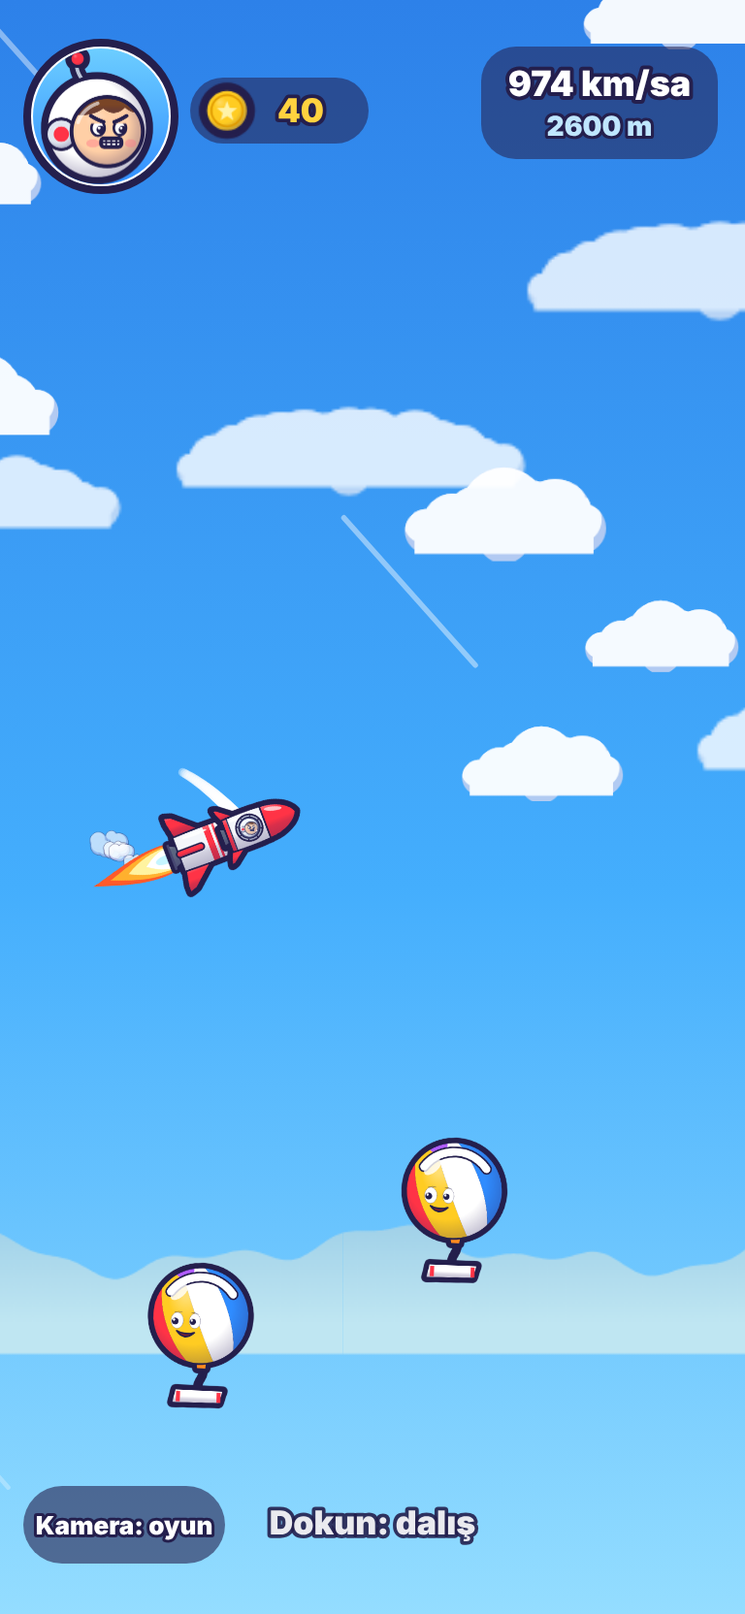
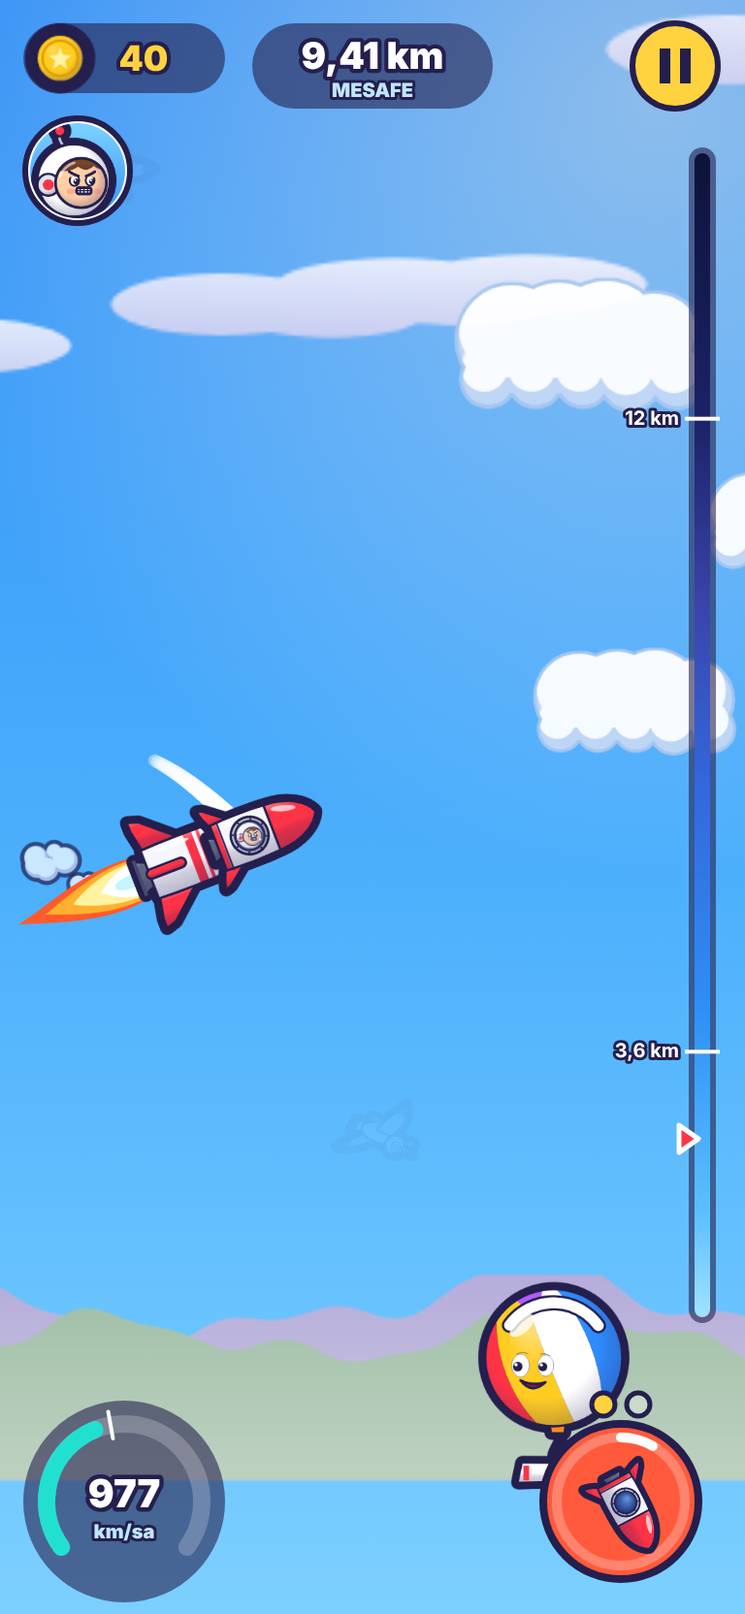
WIP: ara yedek
Claude-Session: https://claude.ai/code/session_01FT8SNz1Hsnax27do6pkEGm

diff --git a/oyun/b1_gorsel/index.html b/oyun/b1_gorsel/index.html
@@ -37,6 +37,7 @@ async function yukle() {
   const j = await (await fetch('sprite/atlas.json')).json();
   IMG = await Promise.all(j.sayfalar.map(s => new Promise((ok, no) => { const i = new Image(); i.onload = () => ok(i); i.onerror = () => no(new Error('yüklenemedi: ' + s)); i.src = 'sprite/' + s; })));
   ATL = j;
+  try { const t = await (await fetch('sprite/b0_tipler.json')).json(); for (const k in t) Object.assign(TIP[k], { aci: t[k].aci, k: t[k].k }); } catch (e) { /* gömülü B0 değerleri kalır */ }
 }
 // ad: sprite; X,Y: ekran (CSS px); rot: ekran açısı (saat yönü +); k: CSS px / dünya birimi; sx,sy: yerel ezilme
 function spr(ad, X, Y, rot, k, sx = 1, sy = 1, a = 1) {
@@ -56,7 +57,8 @@ function renkKaris(a, b, t) { const p = (h, i) => parseInt(h.slice(1 + i * 2, 3 
 
 // ------------------------------------------------------------------ sabitler (B0 ile aynı ölçek)
 const G = 30, R_ROKET = 4, RAMPA_Y = 60, RAMPA_ACI = 38, SES_V = 115;
-const TIP = { balon: { r: 12, aci: 52, k: 0.95 }, zeplin: { r: 22, aci: 48, k: 1.0 }, marti: { r: 13 }, ucurtma: { r: 7 }, dron: { r: 9 } };
+const TIP = { balon: { r: 12, aci: 50, k: 0.8 }, zeplin: { r: 22, aci: 45, k: 0.85 },   // B0 ayar.json TIPLER (sprite/b0_tipler.json ile ezilir)
+  marti: { r: 13 }, ucurtma: { r: 7 }, dron: { r: 9 } };
 const NOZUL = { 2: -20.3, 1: -6.9 };
 
 // ------------------------------------------------------------------ durum
@@ -65,7 +67,7 @@ function sifirla() {
   tohum = 20261008;
   S = {
     t: 0, faz: 'rampa', zaman: 1, yavasT: 9, solma: 1, solmaHedef: 0,
-    R: { x: 0, y: 0, vx: 0, vy: 0, ang: rad(RAMPA_ACI), kademe: 2, dalis: 0, guc: 0, ifade: 'notr', ifT: 0, ez: 9, yol: -45, sesKirildi: false, iz: [] },
+    R: { x: 0, y: 0, vx: 0, vy: 0, ang: rad(RAMPA_ACI), kademe: 2, dalis: 0, guc: 0, ifade: 'notr', ifT: 0, ez: 9, goy: 0, goT: 9, hak: 2, dolum: 0, yol: -45, sesKirildi: false, iz: [] },
     nesne: [], parca: [], yazi: [], halka: [],
     sira: ['ucurtma', 'zeplin', 'balon', 'marti', 'dalis', 'dron', 'son'], adim: 0, hedef: null, olaylar: [],
     K: { x: 0, y: 0, s: 1.9, W: 200, v: 60, sars: 0, ox: 0, oy: 0 }, cdt: 0, flas: 9, konT: 9, sonDokun: -9, apexT: null, dekorX: 120,
@@ -151,6 +153,7 @@ function dekor() {
 // ------------------------------------------------------------------ eylemler
 function dalis(oto) {
   const R = S.R; if (S.faz !== 'ucus' || R.dalis > 0) return;
+  if (!oto && R.hak <= 0) return; R.hak = Math.max(0, R.hak - 1);
   R.dalis = 0.5; R.vy = Math.min(R.vy, -30); R.guc = 0.5; ifade('kararli', 0.9);
   olay(oto ? 'dalis_oto' : 'dalis_dokunus');
   if (S.sira[S.adim] === 'dalis') {   // dalış rotasına sekme balonu (mükemmel sekme + patlama)
@@ -183,7 +186,8 @@ function sekme(o) {
   const v = Math.hypot(R.vx, R.vy), mukemmel = R.dalis > 0 || o.patlar;
   const hiz = Math.max(v * T.k * (mukemmel ? 1.12 : 1), 100), a = rad(T.aci + (mukemmel ? 4 : 0));
   R.vx = hiz * Math.cos(a); R.vy = hiz * Math.sin(a); R.dalis = 0;
-  const cx_ = R.x, cy_ = o.y + o.r * (o.tip === 'zeplin' ? 0.95 : 0.9);
+  const ust = o.y + (o.tip === 'zeplin' ? 21.6 : 12); R.goy = Math.max(0, ust + 4.6 - R.y); R.goT = 0;   // görsel: roket şeridin üstüne oturur
+  const cx_ = R.x, cy_ = ust;
   for (let i = 0; i < 5; i++) toz(cx_ + (i - 2) * 3, cy_, Math.PI * (i < 2 ? 1 : 0) + (rnd() - 0.5) * 0.6, 25 + rnd() * 25, 0.9);
   yildiz(cx_, cy_ + 2, mukemmel ? 1.3 : 1);
   sars(mukemmel ? 0.6 : 0.35);
@@ -203,7 +207,8 @@ function jetonlar(x, y, n) { for (let i = 0; i < n; i++) parca({ ad: 'jeton', x,
 function adim(dt) {
   S.t += dt;
   const R = S.R;
-  R.ez += dt; R.guc = Math.max(0, R.guc - dt); S.portreT += dt;
+  R.ez += dt; R.goT += dt; if (R.hak < 2) { R.dolum += dt / 3; if (R.dolum >= 1) { R.hak++; R.dolum = 0; } } else R.dolum = 0;
+  R.guc = Math.max(0, R.guc - dt); S.portreT += dt;
   if (R.ifT > 0) { R.ifT -= dt; if (R.ifT <= 0) { R.ifade = S.ifSonra || 'notr'; S.ifSonra = null; S.portreT = 0; } }
   if (S.faz === 'rampa') {
     if (S.t > 1.0) {
@@ -240,7 +245,7 @@ function adim(dt) {
         if (o === S.hedef) sonraki();
       } else if (o.tip === 'dron' && o.halka && d < o.r + R_ROKET + 3) {
         o.halka = 0; o.bidonT = 0; S.dronT = S.t; olay('dron');
-        ifade('heyecan', 1.0); yildiz(o.x, o.y, 0.8); yazi('+1 DALIŞ', R.x, R.y + 14, '#22e0d0'); jetonlar(R.x, R.y, 2);
+        ifade('heyecan', 1.0); R.hak = Math.min(2, R.hak + 1); yildiz(o.x, o.y, 0.8); yazi('+1 DALIŞ', R.x, R.y + 14, '#22e0d0'); jetonlar(R.x, R.y, 2);
         if (o === S.hedef) sonraki();
       }
     }
@@ -290,7 +295,8 @@ function sesDuvari() {
 function bitir() { if (S.faz === 'bitti') return; S.faz = 'bitti'; S.solmaHedef = 1; olay('bitis'); }
 
 // ------------------------------------------------------------------ kamera (B0: W = min(500, 150 + 0,5·v), roket sol üçte birde)
-let YAKIN = Q.get('kamera') === 'yakin';
+let YAKIN = Q.get('kamera') !== 'uzak';   // kullanıcı kararı: yakın kamera varsayılan (W × 0,7)
+const TEST = Q.has('test');
 function kameraGuncelle(dt, ani) {
   const K = S.K, R = S.R, v = Math.hypot(R.vx, R.vy);
   K.v = ani ? v : K.v + (v - K.v) * (1 - Math.exp(-dt / 0.8));
@@ -303,7 +309,8 @@ function kameraGuncelle(dt, ani) {
 const ex = x => CW / 3 + (x - S.K.x) * S.K.s + S.K.ox, ey = y => CH / 2 - (y - S.K.y) * S.K.s + S.K.oy;
 
 // ------------------------------------------------------------------ gök ve paralaks
-const GOK = [[0, '#9fe3ff'], [180, '#46b3ff'], [450, '#2a7be6'], [750, '#1d4bb0'], [1000, '#16245a'], [1500, '#0b1030']];
+// irtifa bantları: alçak (parlak camgöbeği) → bulut bandı (doygun mavi) → üst troposfer (mora kayan) → tropopoz (lacivert) → stratosfer (gece)
+const GOK = [[0, '#a6e4ff'], [120, '#5cc0ff'], [350, '#2f8ef5'], [600, '#3466dc'], [800, '#3a43a8'], [1000, '#1c2266'], [1300, '#0d1238'], [1700, '#070a22']];
 function gokRenk(y) { for (let i = 1; i < GOK.length; i++) if (y <= GOK[i][0]) { const [y0, a] = GOK[i - 1], [y1, b] = GOK[i]; return renkKaris(a, b, kis((y - y0) / (y1 - y0), 0, 1)); } return GOK[GOK.length - 1][1]; }
 const YILDIZ = Array.from({ length: 70 }, (_, i) => [hash(i, 1), hash(i, 2), 0.6 + hash(i, 3) * 1.4, hash(i, 4)]);
 function gokCiz() {
@@ -311,6 +318,10 @@ function gokCiz() {
   cx.setTransform(DPR, 0, 0, DPR, 0, 0); cx.globalAlpha = 1;
   const g = cx.createLinearGradient(0, 0, 0, CH); g.addColorStop(0, gokRenk(ust)); g.addColorStop(0.55, gokRenk(lerp(ust, alt, 0.55))); g.addColorStop(1, gokRenk(alt));
   cx.fillStyle = g; cx.fillRect(0, 0, CW, CH);
+  // güneş ışığı: alçakta sıcak, yükseldikçe soğuk ve sönük
+  const yk = kis(K.y / 1000, 0, 1), gx = CW * 0.88, gy = CH * 0.06, gr = CW * 1.05;
+  const gl = cx.createRadialGradient(gx, gy, 0, gx, gy, gr); gl.addColorStop(0, `rgba(${Math.round(lerp(255, 190, yk))},${Math.round(lerp(244, 205, yk))},${Math.round(lerp(214, 255, yk))},${lerp(0.55, 0.18, yk)})`); gl.addColorStop(1, 'rgba(255,255,255,0)');
+  cx.fillStyle = gl; cx.fillRect(0, 0, CW, CH);
   // yıldızlar (y > 500'de belirir)
   const ya = kis((ust - 550) / 400, 0, 1);
   if (ya > 0) {
@@ -341,11 +352,13 @@ function bulutKatmani(f, boy, hucreW, hucreH, adlar, alfa, yMin, yMax, olasilik)
 function zeminCiz() {
   const K = S.K, s = K.s;
   // uzak tepeler (f = 0,2)
-  const f = 0.2, baz = S.K0 * s * (1 - f) - 26;
+  const f = 0.2, baz = S.K0 * s * (1 - f) - 12;
   const Yu = CH / 2 + K.y * s * f + baz;
-  if (Yu < CH + 40) { const tw = 300 * s * 0.8, off = ((K.x * s * f) % tw + tw) % tw; for (let X = -off; X < CW; X += tw) spr('uzak_tepe', X, Yu, 0, s * 0.8); }
+  if (Yu < CH + 40) { const tw = 300 * s * 0.8, off = ((K.x * s * f) % tw + tw) % tw; for (let X = -off; X < CW + 2; X += tw - 1) spr('uzak_tepe', X, Yu, 0, s * 0.8); }
+  // ufukta sıcak pus: uzak tepelerin altını zemine eritir
   const Yg = ey(0);
-  if (Yg < CH + 30 * s) { const tw = 200 * s, off = (((K.x - 0) * s) % tw + tw) % tw; for (let X = CW / 3 - off - tw * 2; X < CW + tw; X += tw) spr('zemin', X, Yg, 0, s); }
+  if (Yg < CH + 60) { const h = CH * 0.36; cx.setTransform(DPR, 0, 0, DPR, 0, 0); cx.globalAlpha = 1; const g = cx.createLinearGradient(0, Yg - h, 0, Yg + 4); g.addColorStop(0, 'rgba(255,220,185,0)'); g.addColorStop(0.75, 'rgba(255,224,192,.45)'); g.addColorStop(1, 'rgba(250,228,200,.8)'); cx.fillStyle = g; cx.fillRect(0, Yg - h, CW, h + 4); }
+  if (Yg < CH + 30 * s) { const tw = 200 * s, off = (((K.x - 0) * s) % tw + tw) % tw; for (let X = CW / 3 - off - tw * 2; X < CW + tw; X += tw - 1) spr('zemin', X, Yg, 0, s); }
 }
 
 // ------------------------------------------------------------------ çizim
@@ -374,19 +387,23 @@ function ciz() {
   }
   // nesneler
   for (const o of S.nesne) nesneCiz(o);
-  // parçacıklar (arkada: duman/toz) ve roket
+  // parçacıklar (arkada: duman/toz); ses duvarı efektleri roketin arkasında, roket tam opak
   parcaCiz(false);
-  roketCiz();
-  parcaCiz(true);
-  // ses duvarı konisi + şok halkaları
-  const R = S.R;
+  const R = S.R, RX = ex(R.x), RY = ey(R.y);
+  if (!AZ && S.flas < 0.09) { const r = Math.sqrt(0.3 * CW * CH / Math.PI); cx.setTransform(DPR, 0, 0, DPR, 0, 0); const g = cx.createRadialGradient(RX, RY, 0, RX, RY, r); g.addColorStop(0, 'rgba(255,255,255,.7)'); g.addColorStop(1, 'rgba(255,255,255,0)'); cx.fillStyle = g; cx.fillRect(RX - r, RY - r, 2 * r, 2 * r); }
+  if (S.konT < 0.9) { const a = Math.min(1, 1.6 * (1 - S.konT / 0.9)), sc = 1.3 + S.konT * 0.8; spr('ses_konisi', RX + Math.cos(-R.ang) * 12 * s, RY + Math.sin(-R.ang) * 12 * s, -R.ang, s * sc, 1, 1, a); }
+  if (S.konT < 0.6) {   // buhar diski: gövdeyi çevreleyen, hareket yönüne dik ince disk
+    const u = S.konT / 0.6, c = Math.cos(-R.ang), n = Math.sin(-R.ang);
+    cx.setTransform(DPR * c, DPR * n, -DPR * n, DPR * c, DPR * RX, DPR * RY);
+    cx.globalAlpha = 0.6 * (1 - u); cx.fillStyle = '#ffffff'; cx.beginPath(); cx.ellipse(2 * s - u * 6 * s, 0, (1.4 + 2 * u) * s, (9 + 24 * u) * s, 0, 0, 6.283); cx.fill();
+    cx.globalAlpha = 0.9 * (1 - u); cx.strokeStyle = '#eaf6ff'; cx.lineWidth = 2; cx.stroke(); cx.globalAlpha = 1;
+  }
   cx.setTransform(DPR, 0, 0, DPR, 0, 0);
   for (const h of S.halka) { if (h.t < 0) continue; const u = h.t / h.omur; cx.globalAlpha = (1 - u) * 0.9; cx.strokeStyle = '#fff'; cx.lineWidth = h.w * (1 - u) + 1; cx.beginPath(); cx.arc(ex(h.x), ey(h.y), (h.r0 + (h.r1 - h.r0) * (1 - (1 - u) ** 3)) * s, 0, 6.283); cx.stroke(); }
   cx.globalAlpha = 1;
+  roketCiz();
+  parcaCiz(true);
   hizCizgileri();
-  // parlama (≤ %30 alan, < 100 ms; hareket azaltmada yok)
-  if (!AZ && S.flas < 0.09) { const r = Math.sqrt(0.3 * CW * CH / Math.PI), X = ex(R.x), Y = ey(R.y); const g = cx.createRadialGradient(X, Y, 0, X, Y, r); g.addColorStop(0, 'rgba(255,255,255,.8)'); g.addColorStop(1, 'rgba(255,255,255,0)'); cx.fillStyle = g; cx.fillRect(X - r, Y - r, 2 * r, 2 * r); }
-  if (S.konT < 0.9) { const a = Math.min(1, 1.6 * (1 - S.konT / 0.9)), sc = 1.5 + S.konT * 0.8; spr('ses_konisi', ex(R.x) + Math.cos(-R.ang) * 13 * s, ey(R.y) + Math.sin(-R.ang) * 13 * s, -R.ang, s * sc, 1, 1, a); }
   yazilar();
   arayuz();
   if (S.solma > 0.001) { cx.setTransform(DPR, 0, 0, DPR, 0, 0); cx.globalAlpha = S.solma; cx.fillStyle = '#0d1538'; cx.fillRect(0, 0, CW, CH); cx.globalAlpha = 1; }
@@ -437,7 +454,7 @@ function nesneCiz(o) {
   }
 }
 function roketCiz() {
-  const R = S.R, s = S.K.s, X = ex(R.x), Y = ey(R.y);
+  const R = S.R, s = S.K.s, X = ex(R.x), Y = ey(R.y + R.goy * Math.max(0, 1 - R.goT / 0.15));
   if (S.faz !== 'rampa') { const hedef = Math.atan2(R.vy, R.vx); let d = hedef - R.ang; while (d > Math.PI) d -= 6.283; while (d < -Math.PI) d += 6.283; R.ang += d * Math.min(1, S.cdt * 12); }
   const rot = -R.ang, v = Math.hypot(R.vx, R.vy);
   // ezilme/esneme: sekmede kısa ezilme, hızda hafif esneme
@@ -470,7 +487,7 @@ function parcaCiz(on) {
     let ad = p.ad; if (p.kareler) ad += '_' + Math.min(p.kareler - 1, Math.floor(u * p.kareler));
     const a = p.a * (p.jeton ? 1 : u > 0.6 ? (1 - u) / 0.4 : 1);
     let X = ex(p.x) + (p.salin ? Math.sin(p.t * 8) * 3 : 0), Y = ey(p.y);
-    if (p.jeton) { const f = kis((u - 0.25) / 0.75, 0, 1) ** 2; X = lerp(X, 117, f); Y = lerp(Y, 57, f); }
+    if (p.jeton) { const f = kis((u - 0.25) / 0.75, 0, 1) ** 2; X = lerp(X, 31, f); Y = lerp(Y, 30, f); }
     if (p.kademe) {
       if (p.t > 0.5) { const pa = Math.min(1, (p.t - 0.5) / 0.25); spr('parasut', X, Y - 6 * s, Math.sin(p.t * 2) * 0.1, s * pa, 1, 1, Math.min(1, (p.omur - p.t) * 2)); }
       spr('roket_alt', X + 12 * s * Math.cos(p.rot), Y + 12 * s * Math.sin(p.rot), p.rot, s, 1, 1, Math.min(1, (p.omur - p.t) * 2));
@@ -479,18 +496,28 @@ function parcaCiz(on) {
     spr(ad, X, Y, p.rot, s * k, 1, 1, a);
   }
 }
-// hız çizgileri (ekran uzayı, hızla artar; hareket azaltmada %30)
-const HC = Array.from({ length: 28 }, (_, i) => ({ x: hash(i, 11), y: hash(i, 12), l: 0.5 + hash(i, 13) }));
+// hız çizgileri: ekran kenarlarında, burun yönüyle aynı vektörde, kalın ve kısa ömürlü; ses duvarında yoğun (hareket azaltmada %30)
+const HC = Array.from({ length: 36 }, () => ({ on: false, x: 0, y: 0, t: 0, omur: 0, L: 0, w: 0 }));
+let hcBirikim = 0;
+function hcGuncelle(dt) {
+  const R = S.R, v = Math.hypot(R.vx, R.vy);
+  for (const h of HC) if (h.on) { h.t += dt; if (h.t >= h.omur) h.on = false; }
+  if (S.faz === 'rampa' || S.faz === 'bitti') return;
+  const ses = S.sesT < 0.8, oran = (ses ? 70 : kis((v - 100) / 50, 0, 1) * 12) * (AZ ? 0.3 : 1);
+  hcBirikim += dt * oran;
+  while (hcBirikim >= 1) {
+    hcBirikim -= 1; const h = HC.find(q => !q.on); if (!h) break;
+    const th = Math.random() * 6.283, rr = 0.44 + Math.random() * 0.1;
+    h.x = CW / 2 + Math.cos(th) * CW * rr * 1.15; h.y = CH / 2 + Math.sin(th) * CH * rr;
+    h.on = true; h.t = 0; h.omur = 0.12 + Math.random() * 0.1; h.L = (40 + Math.random() * 50) * (ses ? 1.6 : 1); h.w = 3 + Math.random() * 2.5;
+  }
+}
 function hizCizgileri() {
-  const R = S.R, v = Math.hypot(R.vx, R.vy); if (S.faz === 'rampa') return;
-  let n = Math.floor(kis((v - 85) / 4, 0, HC.length) * (AZ ? 0.3 : 1)); if (S.sesT < 1) n = HC.length;
-  if (!n) return;
-  const ux = R.vx / v, uy = -R.vy / v;
-  cx.setTransform(DPR, 0, 0, DPR, 0, 0); cx.strokeStyle = 'rgba(255,255,255,0.55)'; cx.lineCap = 'round';
-  for (let i = 0; i < n; i++) {
-    const h = HC[i], L = (40 + 60 * h.l) * Math.min(2.2, v / 100), ph = (S.t * (2 + h.l * 2) + h.x * 7) % 1;
-    const X = (h.x * CW * 1.3 + (1 - ph) * CW * 0.6 * ux * 2) % (CW + 100) - 50, Y = (h.y * CH * 1.2 + (1 - ph) * CH * 0.3 * uy * 2 + CH * 2) % (CH + 100) - 50;
-    cx.globalAlpha = Math.sin(Math.PI * ph) * 0.8; cx.lineWidth = 1.2 + h.l * 1.6;
+  const R = S.R, ux = Math.cos(-R.ang), uy = Math.sin(-R.ang);
+  cx.setTransform(DPR, 0, 0, DPR, 0, 0); cx.strokeStyle = '#ffffff'; cx.lineCap = 'round';
+  for (const h of HC) if (h.on) {
+    const u = h.t / h.omur, X = h.x - ux * u * 220, Y = h.y - uy * u * 220, L = h.L * Math.sin(Math.PI * u);
+    cx.globalAlpha = 0.75 * Math.sin(Math.PI * u); cx.lineWidth = h.w;
     cx.beginPath(); cx.moveTo(X, Y); cx.lineTo(X - ux * L, Y - uy * L); cx.stroke();
   }
   cx.globalAlpha = 1;
@@ -502,52 +529,89 @@ function metin(m, X, Y, boy, renk, a = 1) {
 }
 function yazilar() {
   cx.setTransform(DPR, 0, 0, DPR, 0, 0);
-  for (const y of S.yazi) { const u = y.t / 1.1, pop = u < 0.12 ? 0.6 + 0.6 * u / 0.12 : 1 + 0.05 * Math.sin(u * 20) * (1 - u); metin(y.m, ex(y.x), ey(y.y) - u * 40, 22 * y.boy * pop, y.renk, u > 0.7 ? (1 - u) / 0.3 : 1); }
+  for (const y of S.yazi) {
+    const u = y.t / 1.1, pop = u < 0.12 ? 0.6 + 0.6 * u / 0.12 : 1 + 0.05 * Math.sin(u * 20) * (1 - u), boy = 22 * y.boy * pop;
+    cx.font = `900 ${Math.round(boy)}px system-ui, "Segoe UI", Roboto, sans-serif`; const w = cx.measureText(y.m).width + boy * 0.3;
+    const X = kis(ex(y.x), w / 2 + 10, CW - w / 2 - 10), Y = kis(ey(y.y) - u * 40, 110, CH - 140);
+    metin(y.m, X, Y, boy, y.renk, u > 0.7 ? (1 - u) / 0.3 : 1);
+  }
 }
-// arayüz: pilot portresi (yüz ifadeleri telefonda burada okunur), hız, ipucu, kamera düğmesi
-const DUGME = { x: 0, y: 0, w: 0, h: 0 };
+// arayüz (konsept düzeni): sol üst jeton + pilot rozeti, üst orta mesafe, sağ üst duraklat, sağda irtifa çubuğu,
+// sol alt hız yayı (≥ Mach 1'de "MACH"), sağ alt dalış düğmesi (dolum halkası + hak noktaları)
+const DUGME = { x: 0, y: 0, w: 0, h: 0 }, DURAKLAT = { x: 0, y: 0, r: 22 };
+const PANEL = 'rgba(36,31,77,.6)', CIZGI = '#241f4d';
+function hap(x, y, w, h) { cx.fillStyle = PANEL; cx.beginPath(); cx.roundRect(x, y, w, h, h / 2); cx.fill(); }
 function arayuz() {
+  cx.setTransform(DPR, 0, 0, DPR, 0, 0); cx.globalAlpha = 1;
+  const R = S.R, ust = 12;
+  // jeton (sol üst)
+  hap(12, ust, 104, 36); spr('jeton', 31, ust + 18, 0, 5.2); metin(String(S.jeton), 74, ust + 19, 18, '#ffd23f');
+  // pilot rozeti (jetonun altında, ifadeyi gösterir)
+  const pop = S.portreT < 0.25 ? 1 + 0.2 * Math.sin(Math.PI * S.portreT / 0.25) : 1, PX = 40, PY = ust + 76, r = 27 * pop;
+  cx.fillStyle = '#fff'; cx.strokeStyle = CIZGI; cx.lineWidth = 3; cx.beginPath(); cx.arc(PX, PY, r, 0, 6.283); cx.fill(); cx.stroke();
+  cx.save(); cx.beginPath(); cx.arc(PX, PY, r - 2.5, 0, 6.283); cx.clip();
+  const g = cx.createLinearGradient(0, PY - r, 0, PY + r); g.addColorStop(0, '#7fd6ff'); g.addColorStop(1, '#2f8cff'); cx.fillStyle = g; cx.fillRect(PX - r, PY - r, 2 * r, 2 * r);
+  spr('portre_' + R.ifade, PX - 2, PY + 5 * pop, 0, 1.25 * pop);
+  cx.restore();
+  // mesafe (üst orta)
+  const km = Math.max(0, R.x * 0.012);
+  hap(CW / 2 - 62, ust, 124, 44); metin(km.toFixed(2).replace('.', ',') + ' km', CW / 2, ust + 18, 19, '#fff'); metin('MESAFE', CW / 2, ust + 35, 10, '#bfe6ff');
+  // duraklat (sağ üst)
+  DURAKLAT.x = CW - 36; DURAKLAT.y = ust + 22;
+  cx.setTransform(DPR, 0, 0, DPR, 0, 0); cx.fillStyle = '#ffd23f'; cx.strokeStyle = CIZGI; cx.lineWidth = 3; cx.beginPath(); cx.arc(DURAKLAT.x, DURAKLAT.y, DURAKLAT.r, 0, 6.283); cx.fill(); cx.stroke();
+  cx.fillStyle = CIZGI; if (DURDUR) { cx.beginPath(); cx.moveTo(DURAKLAT.x - 6, DURAKLAT.y - 9); cx.lineTo(DURAKLAT.x + 9, DURAKLAT.y); cx.lineTo(DURAKLAT.x - 6, DURAKLAT.y + 9); cx.fill(); }
+  else { cx.fillRect(DURAKLAT.x - 8, DURAKLAT.y - 9, 5.5, 18); cx.fillRect(DURAKLAT.x + 2.5, DURAKLAT.y - 9, 5.5, 18); }
+  // irtifa çubuğu (sağ, dikey): 0 → tropopoz (y 1000) → üstü
+  const bx = CW - 22, by0 = ust + 64, by1 = CH - 150, bh = by1 - by0, yM = 1300;
+  cx.fillStyle = PANEL; cx.beginPath(); cx.roundRect(bx - 7, by0, 14, bh, 7); cx.fill();
+  const bg = cx.createLinearGradient(0, by1, 0, by0); for (const [y, c] of GOK) bg.addColorStop(kis(y / yM, 0, 1), c);
+  cx.fillStyle = bg; cx.beginPath(); cx.roundRect(bx - 4, by0 + 3, 8, bh - 6, 4); cx.fill();
+  for (const [y, ad] of [[300, '3,6 km'], [1000, '12 km']]) { const Y = by1 - bh * y / yM; cx.fillStyle = '#fff'; cx.fillRect(bx - 9, Y - 1, 18, 2); cx.font = '700 10px system-ui, sans-serif'; cx.textAlign = 'right'; cx.textBaseline = 'middle'; cx.lineWidth = 3; cx.strokeStyle = CIZGI; cx.strokeText(ad, bx - 12, Y); cx.fillText(ad, bx - 12, Y); }
+  const iy = by1 - bh * kis(R.y / yM, 0, 1);
+  cx.fillStyle = '#ff3346'; cx.strokeStyle = '#fff'; cx.lineWidth = 2.5; cx.beginPath(); cx.moveTo(bx - 12, iy - 7); cx.lineTo(bx - 2, iy); cx.lineTo(bx - 12, iy + 7); cx.closePath(); cx.fill(); cx.stroke();
+  // hız yayı (sol alt)
+  const v = Math.hypot(R.vx, R.vy), kmh = Math.round(v * 9.5), mach = v / SES_V, hx = 64, hy = CH - 58, hr = 44;
+  cx.fillStyle = PANEL; cx.beginPath(); cx.arc(hx, hy, hr + 8, 0, 6.283); cx.fill();
+  const a0 = Math.PI * 0.8, a1 = Math.PI * 2.2, af = a0 + (a1 - a0) * kis(v / 250, 0, 1), as = a0 + (a1 - a0) * (SES_V / 250);
+  cx.lineCap = 'round'; cx.lineWidth = 9; cx.strokeStyle = 'rgba(255,255,255,.22)'; cx.beginPath(); cx.arc(hx, hy, hr - 4, a0, a1); cx.stroke();
+  cx.strokeStyle = mach >= 1 ? '#ffd23f' : '#22e0d0'; cx.beginPath(); cx.arc(hx, hy, hr - 4, a0, Math.max(a0 + 0.01, af)); cx.stroke();
+  cx.lineWidth = 2; cx.strokeStyle = '#fff'; cx.beginPath(); cx.moveTo(hx + Math.cos(as) * (hr - 11), hy + Math.sin(as) * (hr - 11)); cx.lineTo(hx + Math.cos(as) * (hr + 3), hy + Math.sin(as) * (hr + 3)); cx.stroke();
+  metin(String(kmh), hx, hy - 3, 20, mach >= 1 ? '#ffd23f' : '#fff'); metin(mach >= 1 ? 'MACH ' + mach.toFixed(1).replace('.', ',') : 'km/sa', hx, hy + 16, 10, mach >= 1 ? '#ffd23f' : '#bfe6ff');
+  // dalış düğmesi (sağ alt): dolum halkası + hak noktaları
+  const dx = CW - 64, dy = CH - 58, dr = 40, hazir = R.hak > 0 && S.faz === 'ucus';
   cx.setTransform(DPR, 0, 0, DPR, 0, 0);
-  const R = S.R, ust = 14, pop = S.portreT < 0.25 ? 1 + 0.18 * Math.sin(Math.PI * S.portreT / 0.25) : 1;
-  // portre balonu
-  const PX = 52, PY = ust + 46, r = 38 * pop;
-  cx.fillStyle = '#ffffff'; cx.strokeStyle = '#241f4d'; cx.lineWidth = 4; cx.beginPath(); cx.arc(PX, PY, r, 0, 6.283); cx.fill(); cx.stroke();
-  cx.save(); cx.beginPath(); cx.arc(PX, PY, r - 3, 0, 6.283); cx.clip();
-  const g = cx.createLinearGradient(0, PY - r, 0, PY + r); g.addColorStop(0, '#6fd0ff'); g.addColorStop(1, '#2f8cff'); cx.fillStyle = g; cx.fillRect(PX - r, PY - r, 2 * r, 2 * r);
-  spr('portre_' + R.ifade, PX - 2, PY + 6 * pop, 0, 1.75 * pop);
-  cx.restore(); cx.setTransform(DPR, 0, 0, DPR, 0, 0);
-  // hız ve irtifa
-  const v = Math.hypot(R.vx, R.vy), kmh = Math.round(v * 9.5);
-  cx.fillStyle = 'rgba(36,31,77,.55)'; cx.beginPath(); cx.roundRect(CW - 136, ust + 10, 122, 58, 18); cx.fill();
-  metin(kmh + ' km/sa', CW - 75, ust + 30, 18, v >= SES_V ? '#ffd23f' : '#fff');
-  metin(Math.max(0, Math.round(R.y * 12)) + ' m', CW - 75, ust + 52, 14, '#bfe6ff');
-  // jeton
-  cx.fillStyle = 'rgba(36,31,77,.55)'; cx.beginPath(); cx.roundRect(98, ust + 26, 92, 34, 17); cx.fill();
-  spr('jeton', 117, ust + 43, 0, 4.6); metin(String(S.jeton), 155, ust + 44, 17, '#ffd23f');
+  cx.fillStyle = hazir ? '#ff5a3c' : '#7b6f8f'; cx.strokeStyle = CIZGI; cx.lineWidth = 4; cx.beginPath(); cx.arc(dx, dy, dr, 0, 6.283); cx.fill(); cx.stroke();
+  cx.lineWidth = 5; cx.strokeStyle = 'rgba(255,255,255,.25)'; cx.beginPath(); cx.arc(dx, dy, dr - 7, 0, 6.283); cx.stroke();
+  if (R.hak < 2) { cx.strokeStyle = '#fff'; cx.beginPath(); cx.arc(dx, dy, dr - 7, -Math.PI / 2, -Math.PI / 2 + 6.283 * R.dolum); cx.stroke(); }
+  spr('roket_ust', dx + 2, dy, rad(62), 2.2);
+  for (let i = 0; i < 2; i++) { const nx = dx - 9 + i * 18, ny = dy - dr - 10; cx.setTransform(DPR, 0, 0, DPR, 0, 0); cx.fillStyle = i < R.hak ? '#ffd23f' : 'rgba(255,255,255,.3)'; cx.strokeStyle = CIZGI; cx.lineWidth = 2.5; cx.beginPath(); cx.arc(nx, ny, 6, 0, 6.283); cx.fill(); cx.stroke(); }
   // ipucu
-  const ip = S.faz === 'rampa' ? 'Kalkışa hazır…' : 'Dokun: dalış';
-  metin(ip, CW / 2, CH - 46, 17, '#ffffff', 0.9);
-  // kamera düğmesi
-  DUGME.w = 104; DUGME.h = 40; DUGME.x = 12; DUGME.y = CH - 66;
-  cx.fillStyle = 'rgba(36,31,77,.6)'; cx.beginPath(); cx.roundRect(DUGME.x, DUGME.y, DUGME.w, DUGME.h, 20); cx.fill();
-  metin(YAKIN ? 'Kamera: yakın' : 'Kamera: oyun', DUGME.x + DUGME.w / 2, DUGME.y + DUGME.h / 2 + 1, 13, '#fff');
+  if (S.faz === 'rampa') metin('Kalkışa hazır…', CW / 2, CH - 150, 17, '#ffffff', 0.9);
+  if (DURDUR) { cx.setTransform(DPR, 0, 0, DPR, 0, 0); cx.fillStyle = 'rgba(13,21,56,.45)'; cx.fillRect(0, 0, CW, CH); metin('DURAKLATILDI', CW / 2, CH / 2, 30, '#fff'); }
+  // kamera düğmesi yalnız ?test ile
+  if (TEST) {
+    DUGME.w = 104; DUGME.h = 34; DUGME.x = CW / 2 - 52; DUGME.y = CH - 44;
+    cx.setTransform(DPR, 0, 0, DPR, 0, 0); hap(DUGME.x, DUGME.y, DUGME.w, DUGME.h);
+    metin(YAKIN ? 'Kamera: yakın' : 'Kamera: uzak', CW / 2, DUGME.y + 18, 13, '#fff');
+  } else DUGME.w = 0;
 }
 
 // ------------------------------------------------------------------ giriş
 cv.addEventListener('pointerdown', e => {
   const r = cv.getBoundingClientRect(), x = e.clientX - r.left, y = e.clientY - r.top;
-  if (x >= DUGME.x && x <= DUGME.x + DUGME.w && y >= DUGME.y && y <= DUGME.y + DUGME.h) { YAKIN = !YAKIN; return; }
-  if (S && S.faz === 'ucus') { S.sonDokun = S.t; dalis(false); }
+  if (DUGME.w && x >= DUGME.x && x <= DUGME.x + DUGME.w && y >= DUGME.y && y <= DUGME.y + DUGME.h) { YAKIN = !YAKIN; return; }
+  if (Math.hypot(x - DURAKLAT.x, y - DURAKLAT.y) < DURAKLAT.r + 10) { DURDUR = !DURDUR; return; }
+  if (S && S.faz === 'ucus' && !DURDUR) { S.sonDokun = S.t; dalis(false); }
 });
 
 // ------------------------------------------------------------------ döngü
-let onceki = 0, birikim = 0, durdu = false;
+let onceki = 0, birikim = 0, durdu = false, DURDUR = false;
 const FPS = { n: 0, t: 0, deger: 0 };
 function kare(zt) {
   if (durdu) return;
   const gdt = Math.min(0.05, (zt - onceki) / 1000 || 0); onceki = zt;
   FPS.n++; FPS.t += gdt; if (FPS.t >= 1) { FPS.deger = FPS.n / FPS.t; FPS.n = 0; FPS.t = 0; }
-  ilerle(gdt);
+  if (!DURDUR) ilerle(gdt);
   ciz();
   requestAnimationFrame(kare);
 }
@@ -557,6 +621,7 @@ function ilerle(gdt) {
   S.cdt = gdt * zk;
   birikim += gdt * zk; const DT = 1 / 120;
   while (birikim >= DT) { adim(DT); birikim -= DT; }
+  hcGuncelle(gdt * zk);
   kameraGuncelle(gdt * zk, false);
   S.solma += (S.solmaHedef - S.solma) * Math.min(1, gdt * 4);
   if (S.faz === 'bitti' && S.solma > 0.97) { sifirla(); S.solma = 1; S.solmaHedef = 0; }

diff --git a/oyun/b1_gorsel/uretim/cizim.js b/oyun/b1_gorsel/uretim/cizim.js
@@ -317,11 +317,14 @@ function marti(c, kare) {
   if (acik) { poli(c, [-4.8, -0.2, -6.8, 0.8, -4.6, 0.5]); dol(c, '#ffae1a'); cizgi(c, IL * 0.8); }
   else { daire(c, -6.4, -0.45, 0.32); dol(c, '#ff3346'); }
   if (acik) {
-    c.beginPath(); for (let a = 0; a < 10; a += 0.3) c.lineTo(-3.3 + Math.cos(a) * a * 0.08, -1.2 + Math.sin(a) * a * 0.08); c.strokeStyle = INK; c.lineWidth = 0.24; c.stroke();
+    elips(c, -3.45, -1.25, 1.0, 1.15); dol(c, '#fff'); cizgi(c, 0.24);
+    c.beginPath(); for (let a = 0; a < 11; a += 0.3) c.lineTo(-3.45 + Math.cos(a) * a * 0.075, -1.25 + Math.sin(a) * a * 0.075); c.strokeStyle = INK; c.lineWidth = 0.22; c.stroke();
+    c.beginPath(); c.ellipse(-6.0, 0.55, 0.45, 0.7, 0.4, 0, 6.283); dol(c, '#ff6f8a'); cizgi(c, 0.15);
   } else {
-    elips(c, -3.4, -1.2, 0.8, 0.95); dol(c, '#fff'); cizgi(c, 0.22);
-    daire(c, -3.7, -1.05, 0.45); dol(c, INK); daire(c, -3.85, -1.25, 0.15); dol(c, '#fff');
-    c.beginPath(); c.moveTo(-4.5, -2.4); c.lineTo(-2.6, -1.85); c.strokeStyle = INK; c.lineWidth = 0.4; c.lineCap = 'round'; c.stroke();
+    elips(c, -3.45, -1.25, 1.0, 1.15); dol(c, '#fff'); cizgi(c, 0.24);
+    daire(c, -3.8, -1.1, 0.55); dol(c, INK); daire(c, -3.98, -1.35, 0.18); dol(c, '#fff');
+    c.beginPath(); c.moveTo(-4.7, -2.65); c.lineTo(-2.5, -2.0); c.strokeStyle = INK; c.lineWidth = 0.45; c.lineCap = 'round'; c.stroke();
+    c.save(); c.globalAlpha = 0.45; elips(c, -2.4, -0.1, 0.6, 0.35); dol(c, '#ff7a8a'); c.restore();
   }
   c.beginPath(); c.moveTo(1.2, 2.2); c.lineTo(2.6, 2.9); c.moveTo(2.0, 2.0); c.lineTo(3.4, 2.6); c.strokeStyle = '#ff8a1f'; c.lineWidth = 0.5; c.stroke();
   kanat(K[1], gri);
@@ -541,14 +544,14 @@ function rampa(c) {   // rampa: ray (−76.8, 0) → (0, 60) dünya; sprite'ta y
 // ---------------------------------------------------------------- SPRITE TANIMLARI
 // x0,y0,x1,y1: sınır (birim). d: yoğunluk çarpanı. ol: dış kontur (birim; 0 = yok).
 const SPRITE = [];
-const OLPX = 2.5, KN = 1.9, ol = (m = 1) => OLPX / (KN * m);   // dış kontur (birim) = 2,5 px / (1,9 px/birim × görüntüleme çarpanı)
+const OLPX = 2.5, KN = 2.6, ol = (m = 1) => OLPX / (KN * m);   // dış kontur (birim) = 2,5 px / (1,9 px/birim × görüntüleme çarpanı)
 const ekle = (ad, x0, y0, x1, y1, ciz, o = {}) => SPRITE.push({ ad, x0, y0, x1, y1, ciz, d: o.d ?? 1, ol: o.ol ?? ol(1), olRenk: o.olRenk || null });
 ekle('roket_ust', -7.4, -7.8, 13, 7.8, roketUst);
 ekle('roket_alt', -21, -10.4, -4.6, 10.4, roketAlt);
 ekle('cam', -2.5, -2.8, 3, 2.6, camParlak, { ol: 0 });
 for (const f of ['notr', 'heyecan', 'saskin', 'kararli']) {
   ekle('pilot_' + f, -2.6, -2.6, 2.6, 2.6, c => pilotKafa(c, 2.35, f, false), { ol: 0, d: 1.5 });
-  ekle('portre_' + f, -17.5, -23.5, 17.5, 16.5, c => pilotKafa(c, 15, f, true), { ol: ol(1.75 / 1.9) });
+  ekle('portre_' + f, -17.5, -23.5, 17.5, 16.5, c => pilotKafa(c, 15, f, true), { ol: ol(1.25 / 2.6) });
 }
 for (let i = 0; i < 4; i++) { ekle('alev_' + i, -13, -4, 1, 4, c => alev(c, i, false), { ol: 0 }); ekle('alev_dalis_' + i, -21, -5, 1, 5, c => alev(c, i, true), { ol: 0 }); }
 ekle('balon', -13, -13, 13, 23, c => balon(c, 'normal'));
@@ -568,9 +571,9 @@ ekle('balon_parca', -2.2, -1.6, 2.4, 1.3, balonParca, { ol: ol(1.2) });
 ekle('ses_konisi', -17, -11.5, 1.5, 11.5, sesKonisi, { ol: 0 });
 ekle('jeton', -2.6, -2.6, 2.6, 2.6, jeton, { ol: ol(1.1) });
 ekle('parasut', -8.5, -16.5, 8.5, 0.8, parasut, { ol: 0 });
-ekle('bulut_0', -31, -19, 31, 10, c => bulut(c, 60, 16, 3, false), { ol: 1.2 / 1.9, olRenk: '#a8c8f0', d: 0.6 });
-ekle('bulut_1', -23, -16.5, 23, 9, c => bulut(c, 44, 14, 8, false), { ol: 1.2 / 1.9, olRenk: '#a8c8f0', d: 0.6 });
-ekle('bulut_2', -37.5, -21, 37.5, 11, c => bulut(c, 76, 18, 21, false), { ol: 1.2 / 1.9, olRenk: '#a8c8f0', d: 0.6 });
+ekle('bulut_0', -31, -19, 31, 10, c => bulut(c, 60, 16, 3, false), { ol: 1.2 / 2.6, olRenk: '#a8c8f0', d: 0.6 });
+ekle('bulut_1', -23, -16.5, 23, 9, c => bulut(c, 44, 14, 8, false), { ol: 1.2 / 2.6, olRenk: '#a8c8f0', d: 0.6 });
+ekle('bulut_2', -37.5, -21, 37.5, 11, c => bulut(c, 76, 18, 21, false), { ol: 1.2 / 2.6, olRenk: '#a8c8f0', d: 0.6 });
 ekle('bulut_uzak_0', -39, -6, 39, 6, c => bulut(c, 80, 10, 5, true), { ol: 0, d: 0.35 });
 ekle('bulut_uzak_1', -30, -5.5, 30, 5.5, c => bulut(c, 60, 9, 13, true), { ol: 0, d: 0.35 });
 ekle('zemin', 0, -16, 200, 90, c => zemin(c, 200), { ol: 0, d: 0.5 });

diff --git a/oyun/b1_gorsel/uretim/uretici.html b/oyun/b1_gorsel/uretim/uretici.html
@@ -5,7 +5,7 @@
 <script>
 'use strict';
 // uret.py bu sayfayı açar ve window.uret(...) çağırır. Çıktılar dataURL olarak döner.
-const D0 = 7;   // piksel / dünya birimi (en yakın kamerada ~2,3 CSS px/birim × 3 DPR)
+const D0 = 8;   // piksel / dünya birimi (en yakın kamerada ~2,3 CSS px/birim × 3 DPR)
 
 function spriteCiz(s, D) {
   const d = D * s.d, ol = s.ol * d, pad = Math.ceil(ol + 2);
